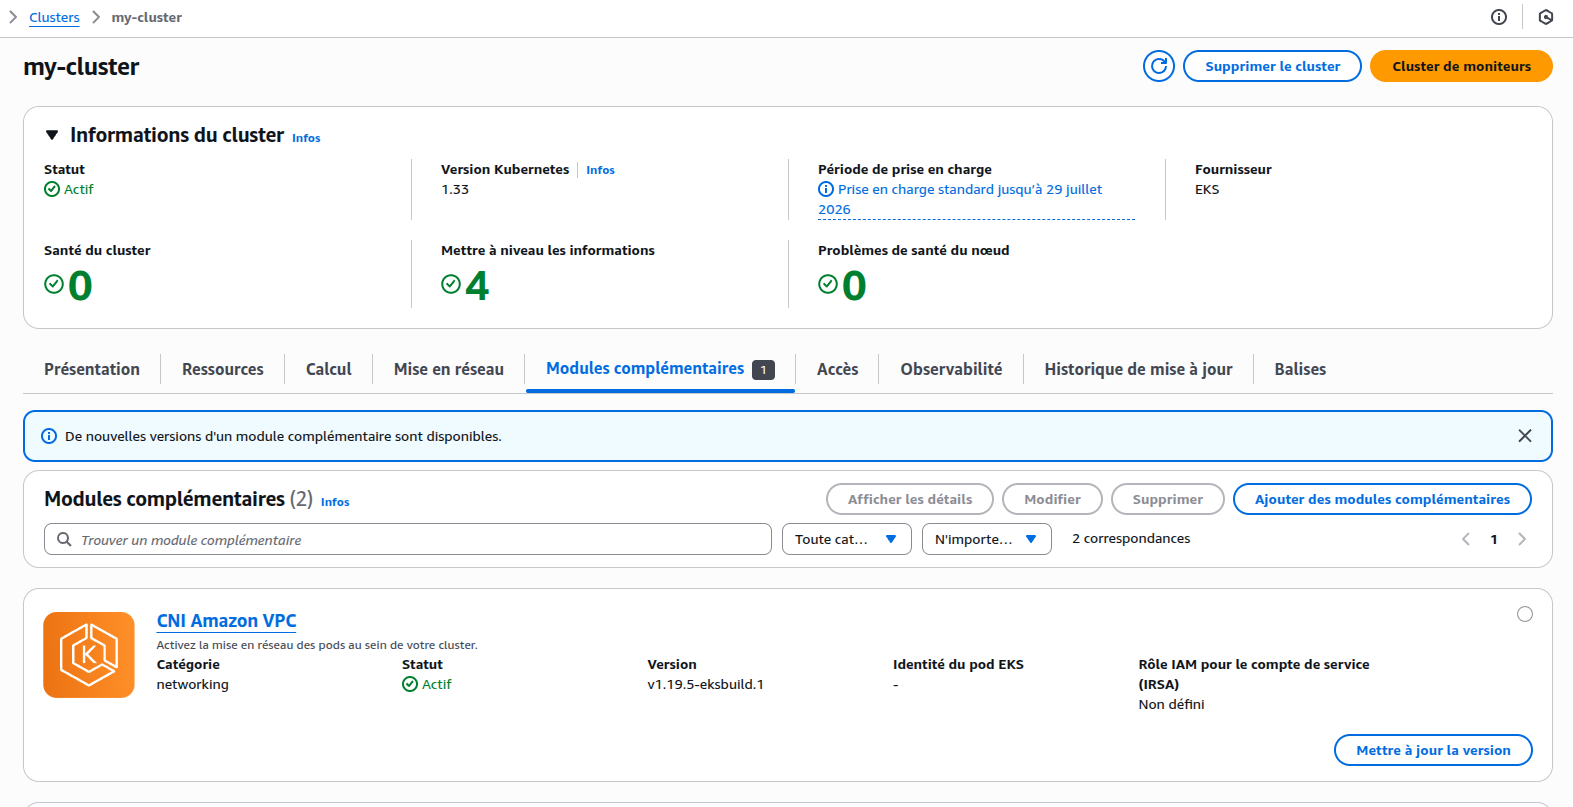
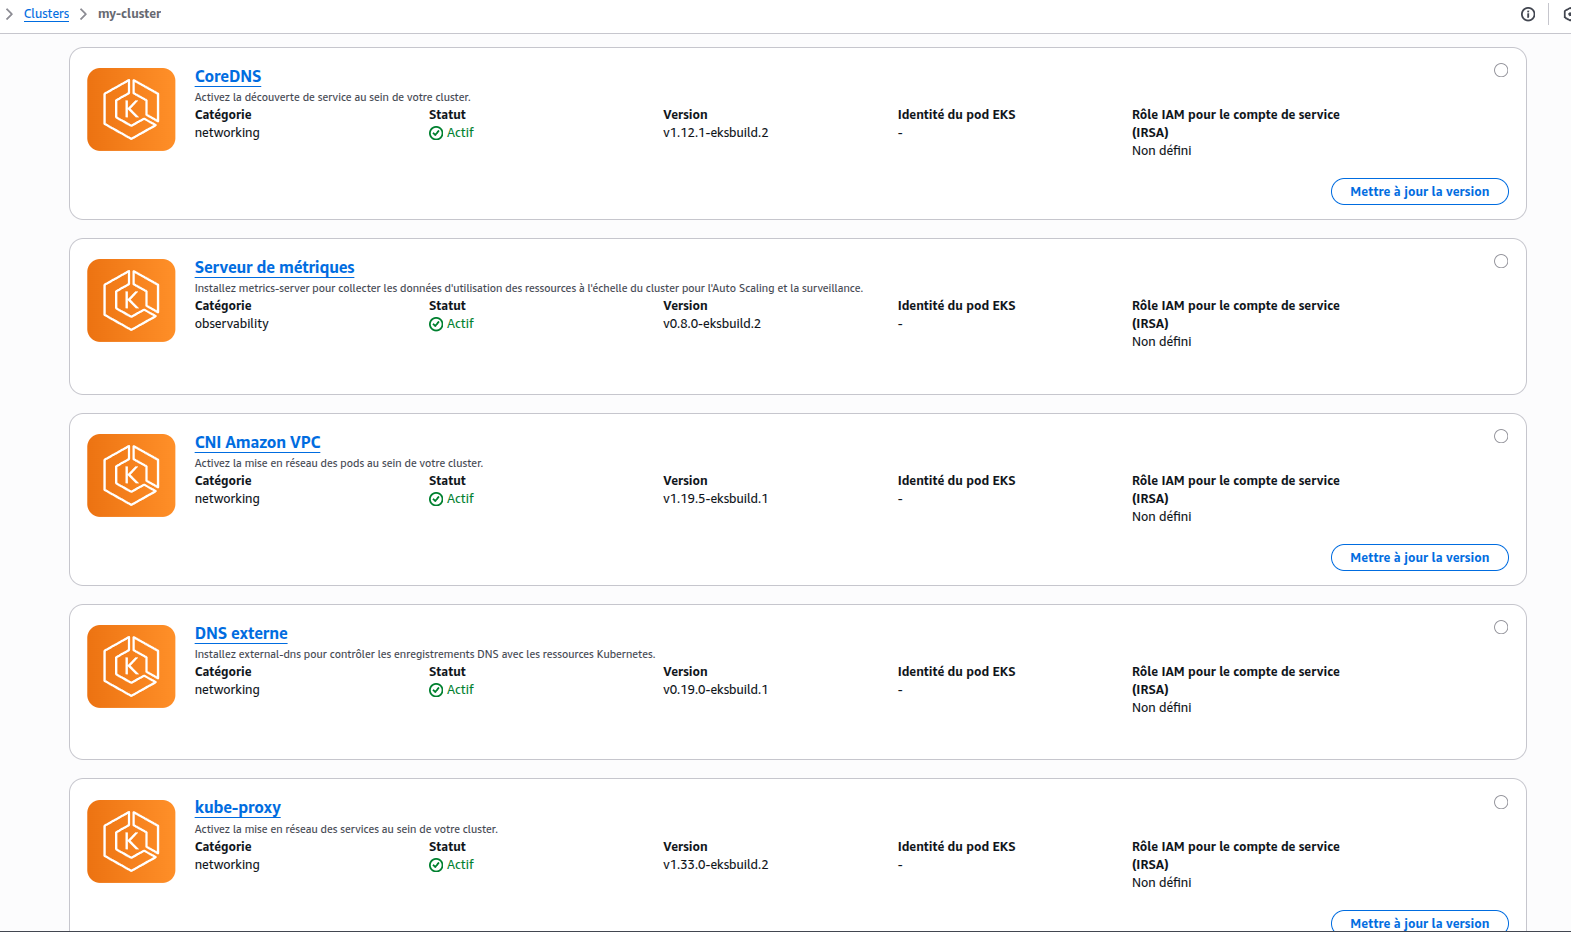
Updates documentation for node group creation
Improves documentation on creating node groups within EKS, including guidance on required add-ons and IAM roles.

Provides an example configuration for exposing the `users-service` using a Network Load Balancer managed by the AWS Load Balancer Controller.

diff --git a/k8s-aws-5/README.md b/k8s-aws-5/README.md
@@ -115,17 +115,42 @@ Pourquoi alors créer des groupes de nœuds?
     - etc
 - Les groupes de nœuds sont **fortement recommandés** pour les environnements de production ou lorsque tu as besoin d’automatisation, de haute disponibilité, d’optimisation du coût, ou de gestion avancée.
 
-Pour pouvoir créer un groupe de nœuds, il est obligatoire d’ajouter le module complémentaire **Amazon VPC CNI** dans la section **Modules complémentaires** du cluster.
+Pour créer et exploiter un groupe de nœuds, il est recommandé d’installer certains modules complémentaires:
 
 ![add-on.png](images/add-on.png)
 
-Après l’ajout du module complémentaire, il est possible d’aller dans la section **Groupes de nœuds** et cliquer sur **Ajouter** :
+Après l’ajout des modules complémentaires, il est possible d’aller dans la section **Groupes de nœuds** et cliquer sur **Ajouter** :
 
 - Donner un nom à notre groupe de nœuds, par exemple `group-node-eks`.
-- Choisir un rôle IAM, ou créer un rôle recommandé via l’option **Créer un rôle recommandé** si nécessaire.
+- Choisir un **rôle IAM** (s’il n’existe pas, vous pouvez le créer rapidement via «Créer un rôle recommandé»).
 - Activer la **réparation automatique de nœuds** dans la section **Configuration de la réparation automatique de nœuds**.
 
-### Déployer notre configuration Kubernetes
+### Déployer notre configuration Kubernetes sur AWS EKS
+Pour exposer le service `users-service` via un Network Load Balancer géré par le AWS Load Balancer Controller, recommande d’utiliser la configuration suivante:
+
+```
+apiVersion: v1
+kind: Service
+metadata:
+  name: users-service
+  annotations:
+    # Utiliser un NLB IP target (pods) géré par AWS Load Balancer Controller
+    service.beta.kubernetes.io/aws-load-balancer-type: "external"
+    service.beta.kubernetes.io/aws-load-balancer-nlb-target-type: "ip"
+    # Mettre en route un Load Balancer internet-facing (accessible publiquement)
+    service.beta.kubernetes.io/aws-load-balancer-scheme: "internet-facing"
+    # Activer proxy protocol si besoin d'adresser le client réel (optionnel)
+    # service.beta.kubernetes.io/aws-load-balancer-proxy-protocol: "*"
+spec:
+  selector:
+    app: users-pod
+  type: LoadBalancer
+  ports:
+    - protocol: TCP
+      port: 80                # Port exposé au public
+      targetPort: users-port  # Port sur le pod
+  loadBalancerClass: eks.amazonaws.com/nlb
+```
 
 ```
 $ kubectl apply -f users.yaml -f auth.yaml
